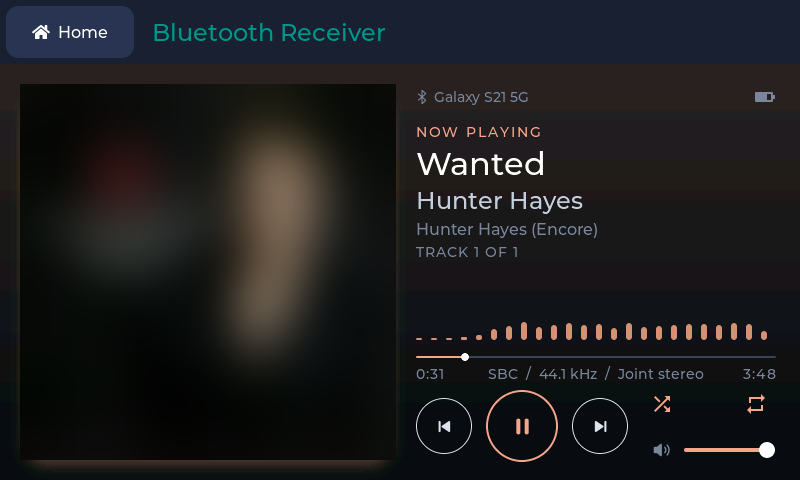
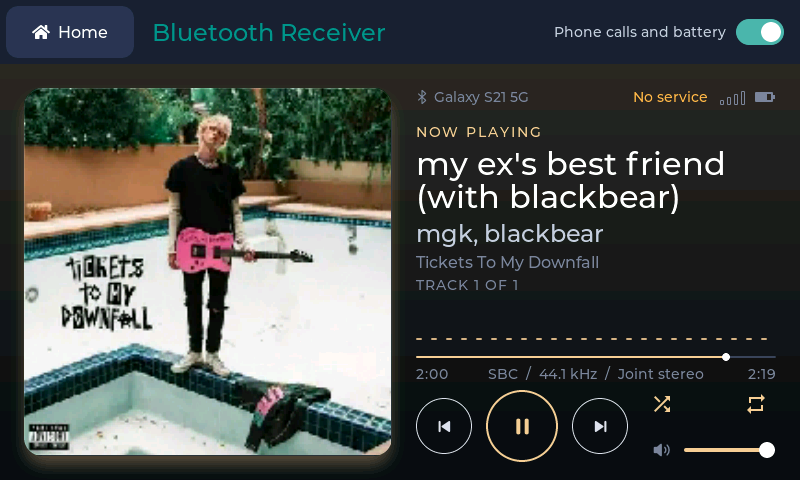
Bluetooth Receiver: calls the phone's hands-free side when the switch turns on
The hands-free link follows the sink only when the sink connects, so a phone
that was already connected when Phone calls and battery was turned on never
got one. The app now calls that phone itself, up to three times, three
seconds apart. The board picture is a real screenshot from an ESP32-S31
board with the switch on.

Checked on the board: with the switch off there's no hands-free link and
music plays. Turned on, the phone's battery and signal show within seconds.
The setting is still on after a reset. The contract test passes on CPython
and unix MicroPython.

diff --git a/apps/btreceiver/__init__.py b/apps/btreceiver/__init__.py
@@ -45,6 +45,11 @@ COVER_JPEG = 96 * 1024  # room for the cover's JPEG
 # A phone starting a stream sends about twice as fast for a second or two:
 # this rides that out. Half of it is the delay to the speaker.
 BUFFER_MS = 1000
+# Calling the phone's hands-free side when the setting is turned on: the
+# first try waits this long after the unit starts, which a call made at once
+# misses, and there are this many tries in all.
+HF_RETRY_MS = 3000
+HF_TRIES = 3
 
 state = None  # the open app's state, for the console
 # What Android sends for a field it doesn't know, the title included when
@@ -343,7 +348,26 @@ def main(scope):
         if st["answered"] is not None:
             scr.show_call_time(ticks_diff(ticks_ms(), st["answered"]))
 
+    def call_phone():
+        # The link follows the sink when the sink connects, but not to a
+        # phone that was connected before the unit started: call that one
+        # a few times, a while apart. A computer never answers.
+        hf = st["hf"]
+        if hf.connected or not sink.connected or not hasattr(hf, "connect"):
+            st["hf_tries"] = 0
+            st["hf_asked"] = ticks_ms()
+            return
+        if st["hf_tries"] >= HF_TRIES or ticks_diff(ticks_ms(), st["hf_asked"]) < HF_RETRY_MS:
+            return
+        st["hf_tries"] += 1
+        st["hf_asked"] = ticks_ms()
+        try:
+            hf.connect()
+        except OSError as e:
+            print("btreceiver: the phone's hands-free link:", e)
+
     def follow_phone():
+        call_phone()
         changed = st["hf"].changes()
         if changed & (bits.CONNECTION | bits.AUDIO | bits.CALL):
             route_call()
@@ -421,6 +445,8 @@ def main(scope):
         st["hf"] = hf
         # A firmware older than HandsFree.call_audio always takes the call's audio.
         st["takes_audio"] = getattr(hf, "call_audio", True)
+        st["hf_tries"] = 0
+        st["hf_asked"] = ticks_ms()
         follow_phone()
         show_phone()
         show_call()

diff --git a/apps/btreceiver/README.md b/apps/btreceiver/README.md
@@ -24,11 +24,11 @@ needs audiodsp's `audiometer`; without it the app plays with no spectrum.
 Made for an 800 x 480 screen. The cover and its buffers take about 350 KB,
 so it wants a board with PSRAM.
 
-![Bluetooth Receiver on an ESP32-S31 board with a 4.3-inch screen: the track beside its cover (blurred here), the phone's battery at the top right, and shuffle and repeat both lit](docs/images/board.png)
+![Bluetooth Receiver on an ESP32-S31 board with a 4.3-inch screen: the track beside its cover, the Phone calls and battery switch on at the top right, and the phone's signal bars and battery above the title](docs/images/board.png)
 
-Here it runs on an ESP32-S31 board with a 4.3-inch screen. Shuffle and
-repeat were turned on from the phone, and the buttons on the board follow
-them.
+Here it runs on an ESP32-S31 board with a 4.3-inch screen, with Phone calls
+and battery turned on. The phone had no mobile service when this was
+taken, so the status reads No service.
 
 ## Use it
 
